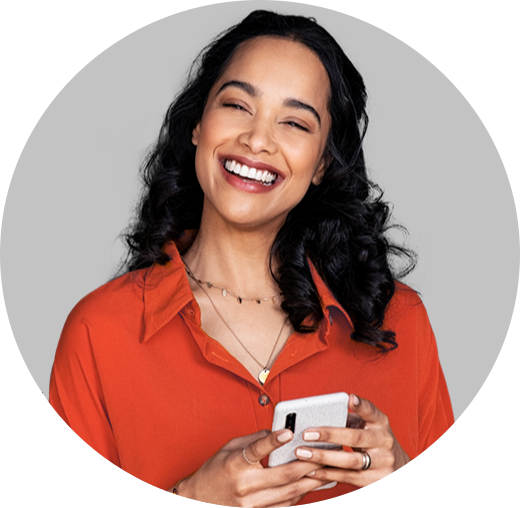
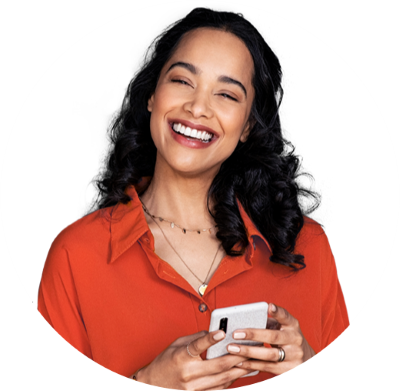
cambio a bootstrap

Changed region(s): [[0.0, 0.0, 1.0, 0.8286], [0.6, 0.9821, 0.63, 1.0]]

diff --git a/index.html b/index.html
@@ -3,91 +3,142 @@
     <head>
         <title>Portfolio</title>
         <link rel="stylesheet" href="css/style.css">
-        <script src="https://kit.fontawesome.com/c115c4d63d.js" crossorigin="anonymous"></script>
+        <link rel="stylesheet" href="https://cdn.jsdelivr.net/npm/bootstrap-icons@1.11.3/font/bootstrap-icons.min.css">
+        <meta charset="utf-8">
+        <meta name="viewport" content="width=device-width, initial-scale=1">
+        <link href="https://cdn.jsdelivr.net/npm/bootstrap@5.3.3/dist/css/bootstrap.min.css" rel="stylesheet" integrity="sha384-QWTKZyjpPEjISv5WaRU9OFeRpok6YctnYmDr5pNlyT2bRjXh0JMhjY6hW+ALEwIH" crossorigin="anonymous">
         <link rel="preconnect" href="https://fonts.googleapis.com">
         <link rel="preconnect" href="https://fonts.gstatic.com" crossorigin>
-        <link href="https://fonts.googleapis.com/css2?family=Roboto:ital,wght@0,100..900;1,100..900&display=swap" rel="stylesheet">
-        <link rel="stylesheet" href="css/style.css">
+        <link href="https://fonts.googleapis.com/css2?family=Poppins:ital,wght@0,100;0,200;0,300;0,400;0,500;0,600;0,700;0,800;0,900;1,100;1,200;1,300;1,400;1,500;1,600;1,700;1,800;1,900&family=Roboto:ital,wght@0,100..900;1,100..900&display=swap" rel="stylesheet">
     </head>
-    <body>
+    <body id="body">
         <header>
-            <a href="https://github.com/"><i class="fa-brands fa-github"></i></a>
-            <a href="https://linkedin.com/"><i class="fa-brands fa-linkedin"></i></a>
-            <a href="https://www.instagram.com/"><i class="fa-brands fa-instagram"></i></a>
+            <div class="container d-flex justify-content-center">
+                <div class="row p-3">
+                    <a class="col md-3" href="https://github.com/"><i class="bi bi-github"></i></a>
+                    <a class="col md-3" href="https://linkedin.com/"><i class="bi bi-linkedin"></i></a>
+                    <a class="col md-3" href="https://www.instagram.com/"><i class="bi bi-instagram"></i></a>
+                    <a class="col md-3" href=""><i class="bi bi-moon"></i></a>
+                </div>
+            </div>
         </header>
         <nav>
-            <div class="titulo">
-                <h1>ING. en SISTEMAS de INFORMACIÓN</h1>
-                <h2>Lirael Montserrat</h2>
+            <div class="container">
+                <div class="row d-flex align-items-center">
+                    <div class="col -6 text-end">
+                        <h1>ING. en SISTEMAS de INFORMACIÓN</h1>
+                        <h2>Lirael Montserrat</h2>
+                    </div>
+                    
+                    <div class="col -6"><img class="img-fluid" src="img/foto_perfil_d.png" alt="foto modo oscuro"></div>
+                </div>
             </div>
-            <img class="img" src="img/foto_perfil_d.png" alt="foto modo oscuro">
         </nav>
-        <article>
-            <section class="descripcion">
-                <p>
-                    Apasionada por la tecnología y la innovación, con una mente analítica y creativa. Me especializo en desarrollar soluciones eficientes y escalables para la gestión de datos y sistemas. 
-                    Mi enfoque práctico y detallista me ha llevado a liderar proyectos que optimizan la infraestructura tecnológica de diversas empresas, siempre con la visión de mejorar la experiencia 
-                    del usuario. Soy conocida por mi capacidad para resolver problemas complejos y por mi constante interés en aprender nuevas herramientas y tendencias en el mundo digital.
-                </p> 
+
+        <article class="descripcion">
+            <section class="container">
+                <div class="row">
+                    <p class="col md-12">
+                        Apasionada por la tecnología y la innovación, con una mente analítica y creativa. Me especializo en desarrollar soluciones eficientes y escalables para la gestión de datos y sistemas. 
+                        Mi enfoque práctico y detallista me ha llevado a liderar proyectos que optimizan la infraestructura tecnológica de diversas empresas, siempre con la visión de mejorar la experiencia 
+                        del usuario. Soy conocida por mi capacidad para resolver problemas complejos y por mi constante interés en aprender nuevas herramientas y tendencias en el mundo digital.
+                    </p> 
+                </div>
             </section>
         </article>
-        <article>
-            <section class="texto">
-                <ul class="columna">
-                    <li class="titulo_hab">Habilidades</li>
-                    <li class="list">Manejo avanzado de Phyton, C++ y SQL.</li>
-                    <li class="list">Análisis de datos con Excel, Power BI y Python.</li>
-                    <li class="list">Gestión de proyectos con SCRUM y Kanban.</li>
-                    <li class="list">Desarrollo de interfaces de usuario.</li>
-                    <li class="list">Testing y control de calidad.</li>
-                    <li class="list">Conocimientos en Ciberseguridad.</li>
+        
+        <article class="habilidades">
+            <h1>Habilidades</h1>
+            <section class="container m-3">
+                <ul class="row">
+                    <li class="col md-4">Manejo avanzado de Phyton, C++ y SQL.</li>
+                    <li class="col md-4">Análisis de datos con Excel, Power BI y Python.</li>
+                    <li class="col md-4">Gestión de proyectos con SCRUM y Kanban.</li>
                 </ul>
-                <ul class="columna">
-                    <li class="titulo_hab">Experiencia</li>
-                    <li class="list"> IBM: participando en el desarrollo de soluciones en la nube, inteligencia artificial y 
+                <ul class="row">
+                    <li class="col md-4">Desarrollo de interfaces de usuario.</li>
+                    <li class="col md-4">Testing y control de calidad.</li>
+                    <li class="col md-4">Conocimientos en Ciberseguridad.</li>
+                </ul>
+            </section>
+        </article>
+        <article class="experiencia">
+            <h1>Experiencia</h1>
+            <section class="container">
+                <ul class="row">
+                    <li class="col md-6"> Empresa IBM: desarrollo de soluciones en la nube, inteligencia artificial y 
                         consultoría tecnológica para empresas.</li>
-                    <li class="list">Accenture: parte del equipo que brinda asesoramiento y soluciones 
+                    <li class="col md-6">Empresa Accenture: asesoramiento y soluciones 
                         tecnológicas a empresas de diversos sectores.</li>
                 </ul>
             </section>
         </article>
-        <section>
-            <ul class="proyectos">
-                <li class="item">
-                    Desarrollo de una plataforma de e-commerce personalizada: participación 
-                    en el diseño y desarrollo de la plataforma. Liderando la integración de sistemas
-                    de pago, gestión d einventarios y análisis de datos.
-                </li>
-                <li class="item">
-                    Implementación de un sistema de gestión de datos en la nube: trabaje en la migración 
-                    de la infraestructura de TI de la empresa a la nube, creando una solución escalable 
-                    y segura para gestionar la información.
-                </li>
-                <li class="item">
-                    Desarrollo de una aplicación de análisis predictiva para la optimización de la cadena
-                    de suministro: diseñe una aplicación basada en inteligencia artificial y análisis predictivo
-                    para prever y optimizar la demanda de productos.
-                </li>
-            </ul>
-        
-        </section>
+        <article class="proyectos">
+            <h1>Proyectos</h1>
+            <section class="container">
+                <ul class="row">
+                    <li class="col md-4">
+                        Desarrollo de una plataforma de e-commerce personalizada: participación 
+                        en el diseño y desarrollo de la plataforma. Liderando la integración de sistemas
+                        de pago, gestión d einventarios y análisis de datos.
+                    </li>
+                    <li class="col md-4">
+                        Implementación de un sistema de gestión de datos en la nube: trabaje en la migración 
+                        de la infraestructura de TI de la empresa a la nube, creando una solución escalable 
+                        y segura para gestionar la información.
+                    </li>
+                    <li class="col md-4">
+                        Desarrollo de una aplicación de análisis predictiva para la optimización de la cadena
+                        de suministro: diseñe una aplicación basada en inteligencia artificial y análisis predictivo
+                        para prever y optimizar la demanda de productos.
+                    </li>
+                </ul>
+            </section>
+        </article>
+       
+        <article>
+            <section class="formulario">
+                <form method="post" action="" class="container d-flex align-items-center">
+                    <div class="row">
+                        <div class="col md-6 m-3">
+                            <label for="nombre">Nombre: </label>
+                            <input name="nombre" id="nombre" placeholder="Pablo" required> 
+                        </div>
+                        <div class="col md-6 m-3">
+                            <label for="apellido">Apellido: </label>
+                            <input name="apellido" id="apellido" placeholder="Abratte" required>
+                        </div>     
+                        
+                    </div>
+                    <div class="row">
+                        <div class="col md-12 m-3"> 
+                            <label for="mensaje">Mensaje: </label>
+                            <input name="mensaje" id="mensaje" placeholder="Me quiero comunicar..." required> 
+                        </div>
+                    </div> 
+                    <div class="row">
+                        <div class="col md-12 m-3"> 
+                            <label for="contacto">Contacto: </label>
+                            <input name="contacto" id="contacto" type="email" placeholder="pabratte@gmail.com" required> 
+                        </div>
+                    </div> 
+                    <div class="row">
+                        <div class="col md-12"> 
+                            <input type="submit" value="Enviar datos">
+                        </div>
+                    </div>
+                </form>
+            </section>
+        </article>
         <footer>
-            <form method="post" action="">
-                <div class="form1">
-                    <label for="nombre">Nombre: </label>
-                    <input name="nombre" id="nombre" placeholder="Pablo" required> 
-                    
-                    <label for="apellido">Apellido: </label>
-                    <input name="apellido" id="apellido" placeholder="Abratte" required>
+            <div class="container">
+                <div class="row d-flex justify-content-between">
+                    <p class="col 6 d-flex justify-content-center">Correo electrónico:liraelmontserrat@gmail.com</p>
+                    <p class="col 6 d-flex justify-content-center">San Francisco. Córdoba</p>
                 </div>
-                <label for="mensaje">Mensaje: </label>
-                <input name="mensaje" id="mensaje" placeholder="Me quiero comunicar con usted..." required> 
 
-                <label for="contacto">Contacto: </label>
-                <input name="contacto" id="contacto" type="email" placeholder="pabratte@gmail.com" required> 
-
-                <input type="submit" value="Enviar datos">
-            </form>
+            </div>
+            
         </footer>
     </body>
 </html>

diff --git a/css/style.css b/css/style.css
@@ -1,120 +1,96 @@
-body {
-  font-family: "Roboto", sans-serif;
-  font-optical-sizing: auto;
-  font-weight: weight;
+#body {
+  font-family: "Poppins", sans-serif;
+  font-weight: 300;
   font-style: normal;
-  font-variation-settings:
-  "wdth" 100;
-  background-color: #7F7F7F;
+  background-color: #17153b;
   margin:0px;
-  padding:0px;
+  padding: 0px;
 }
-h1{
-  text-align: left;
-}
-h2{
-  font-family:'Lucida Sans', 'Lucida Sans Regular', 'Lucida Grande', 'Lucida Sans Unicode', Geneva, Verdana, sans-serif;
-  
-}
+
 header{
-  display: flex;
-  background-color: #3B3B3B;
-  justify-content: center;
-}
-
-a{
-  margin:10px;
-  padding: 10px;
-  text-decoration: none;
-  color:#b1b0b0;
-}
-
-nav{
-  display: flex;
-  justify-content: space-evenly;
+  background-color: #17153b;
   
 }
-.img{
-  min-width: 25%; 
+i{
+  padding: 20px;
+  text-decoration: none;
+  color: #C8ACD6;
 }
-.titulo{
-  display: flex;
-  flex-direction: column;
-  justify-items: center;
-  justify-content: center;
-  align-items: flex-start;
+nav{
+  background-color:#433d8b ;
+  color:#ffff;
+  padding: 20px;
 }
 .descripcion{
-  display: flex;
-  background-color: #b1b0b0;
-  justify-content:center;
-  padding: 10px;
-  margin:10px;
-  border-radius: 10px;
-  text-align: justify;
+  margin-top:0px;
+  background-color:#6f6a9f;
 }
-
-.texto{
+p{
+  color:#000000;
+  padding:15px;
+  border-radius: 10px;
+}
+li{
+  list-style: none;
+}
+.habilidades h1{
   display: flex;
-  flex-direction: row;
   justify-content: center;
+  font-size: 30px;
+  padding: 5px;
+  margin:30px;
+  color:#ffff;
+}
+.habilidades ul li{
   margin:5px;
+  margin-bottom: 15px;
+  border: 2px solid #ffff;
+  color:#ffff;
   padding: 10px;
 }
-.columna{
+
+.experiencia h1{
   display: flex;
-  flex-direction: column;
-  width: 50%;
+  justify-content: center;
+  font-size: 30px;
+  padding:15px;
+  margin:10px;
+  color:#ffff;
 }
-.list{
-  margin:5px;
-  padding:5px;
-  margin-left: 0px;
-  padding-left: 0px;
-}
-ul{
-  list-style-type: none;
-  padding:0px;
-}
-.titulo_hab{
-  font-size: 20px;
-}
-
-
-.proyectos{
-  display:flex;
-  flex-direction: row;
-  flex-wrap: wrap;
-  justify-content: space-evenly;
-}
-.item{
-  max-width: 25%;
-  background-color: #a79999;
-  border-radius: 10px;
+.experiencia{
+  background-color: #433d8b;
   padding:10px;
 }
-
-form{
-  display: flex;
-  flex-direction: column;
-  width: 50%;
-  background-color: #d2d2d2;
-  border-radius: 3px;
+.experiencia ul li{
+  color:#ffff;
+  padding:10px;
   margin:10px;
-  padding: 10px;
 }
-.form1{
+
+.proyectos h1{
   display: flex;
   justify-content: center;
-  flex-direction: row;
+  font-size: 30px;
+  padding:15px;
+  margin:20px;
+  color:#ffff;
 }
+
+.proyectos ul li{
+  color:#ffff;
+  padding:10px;
+  margin:10px;
+  border: 2px solid #ffff;
+}
+.formulario{
+  margin:40px;
+  background-color: #897394;
+  border-radius: 10px;
+}
+
 footer{
-  display: flex;
-  justify-content: center;
-}
-input{
-  margin:5px;
-}
-label{
-  margin:5px;
+  background-color: #6f6a9f;
+  color:#ffff;
+  font-size: 10px;
+  margin:0px;
 }
